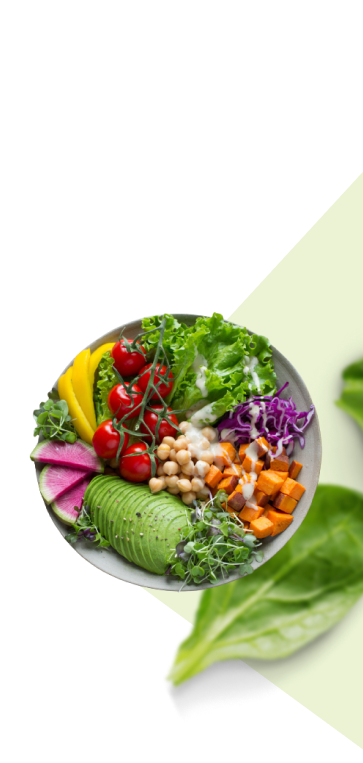
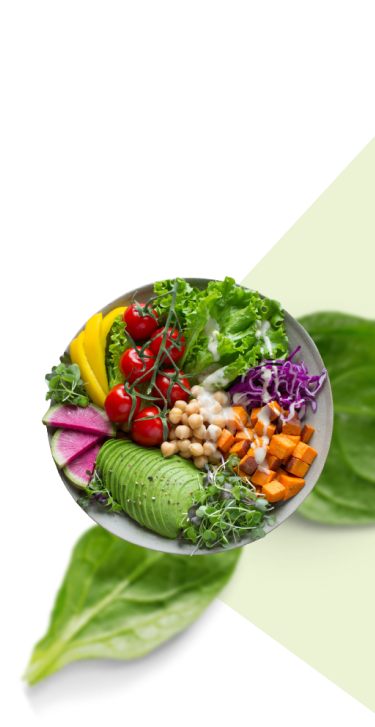
fix bcg

diff --git a/src/components/Main/Search/Search.styled.jsx b/src/components/Main/Search/Search.styled.jsx
@@ -3,7 +3,7 @@ import styled from 'styled-components';
 export const Input = styled.input`
   border-radius: 18px 44px;
   background-color: var(--primary-white);
-  padding: 17px 32px;
+  padding: 16px 31px;
   border: none;
 
   width: 295px;
@@ -15,10 +15,10 @@ export const Input = styled.input`
   @media screen and (min-width: 768px) {
     width: 362px;
     font-size: 16px;
-    padding: 18px 38px;
+    padding: 17px 37px;
   }
   @media screen and (min-width: 1440px) {
-    padding: 23px 48px;
+    padding: 22px 47px;
     width: 510px;
   }
 `;
@@ -48,7 +48,7 @@ export const BtnWrapper = styled.div`
   top: -1px;
   right: 7%;
   @media screen and (min-width: 768px) {
-    top: -1px;
+    /* top: -1px; */
     right: -1px;
   }
 `;

diff --git a/src/components/Main/ChooseYourBreakfast/ChooseYourBreakfast.styled.jsx b/src/components/Main/ChooseYourBreakfast/ChooseYourBreakfast.styled.jsx
@@ -7,7 +7,6 @@ export const PopUp = styled.div`
   width: 225px;
   margin-left: 100px;
   background-color: var(--primary-white);
-  /* background-color: yellow; */
 
   margin-bottom: 115px;
   @media screen and (min-width: 768px) {
@@ -60,4 +59,7 @@ export const RecipeLink = styled(Link)`
   display: flex;
   justify-content: flex-end;
   align-items: center;
+  &:hover {
+    color: #8baa36;
+  }
 `;

diff --git a/src/components/Main/Hero/HeroBcg/LeftBcg.styled.jsx b/src/components/Main/Hero/HeroBcg/LeftBcg.styled.jsx
@@ -36,10 +36,11 @@ export const Right = styled.div`
   width: 375px;
   height: 824px;
   background-image: url('${rightBcgMob}');
-  background-size: cover;
+  background-repeat: no-repeat;
   @media screen and (min-width: 768px) {
     top: 0;
-    width: 596px;
+    right: 0;
+    width: 580px;
     height: 789px;
     background-image: url('${rightBcgTab}');
   }
